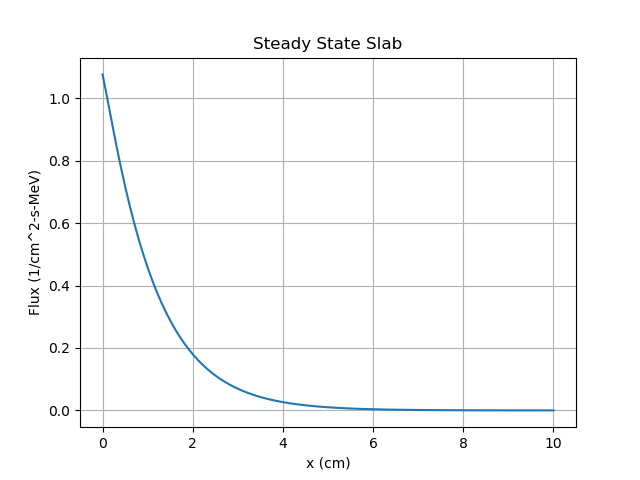
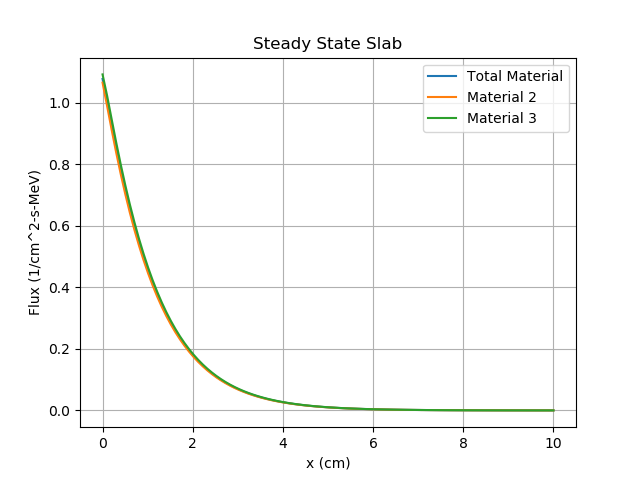
Updated plotting parameters for L-P closure

diff --git a/src_py/closure_plot.py b/src_py/closure_plot.py
@@ -7,21 +7,35 @@ import re
 import numpy as np
 import matplotlib.pyplot as plt
 
-def main():
-    '''Main wrapper'''
-    plotname = "steady_state_slab_closure.png"
+def get_data(filename):
+    '''Read in the files and return data for plotting'''
     x_values = np.array([])
     flux = np.array([])
-    pattern = re.compile(r'\s+(\S+)\s+(\S+)\s+')
-    with open('./out/steady_state_slab_closure.out', mode='r') as datafile:
+    pattern = re.compile(r'\s*(\S+)\s*(\S+)\s*')
+    with open(filename, mode='r') as datafile:
         for line in datafile:
             if re.match(pattern, line):
                 x_values = np.append(x_values,
                                      float(re.match(pattern, line).group(1)))
                 flux = np.append(flux,
                                  float(re.match(pattern, line).group(2)))
-    plt.plot(x_values, flux)
+    return (x_values, flux)
+
+def main():
+    '''Main wrapper'''
+    plotname = "steady_state_slab_closure.png"
+    filenames = ["./out/steady_state_slab_closure.out",
+                 "./out/steady_state_slab_closure_1.out",
+                 "./out/steady_state_slab_closure_2.out"]
+    for i, filename in enumerate(filenames):
+        x_values, flux = get_data(filename)
+        if i == 0:
+            legend_title = "Total Material"
+        else:
+            legend_title = "Material " + str(i + 1)
+        plt.plot(x_values, flux, label=legend_title)
     plt.grid(which='major', axis='both')
+    plt.legend()
     plt.title("Steady State Slab")
     plt.xlabel("x (cm)")
     plt.ylabel("Flux (1/cm^2-s-MeV)")
